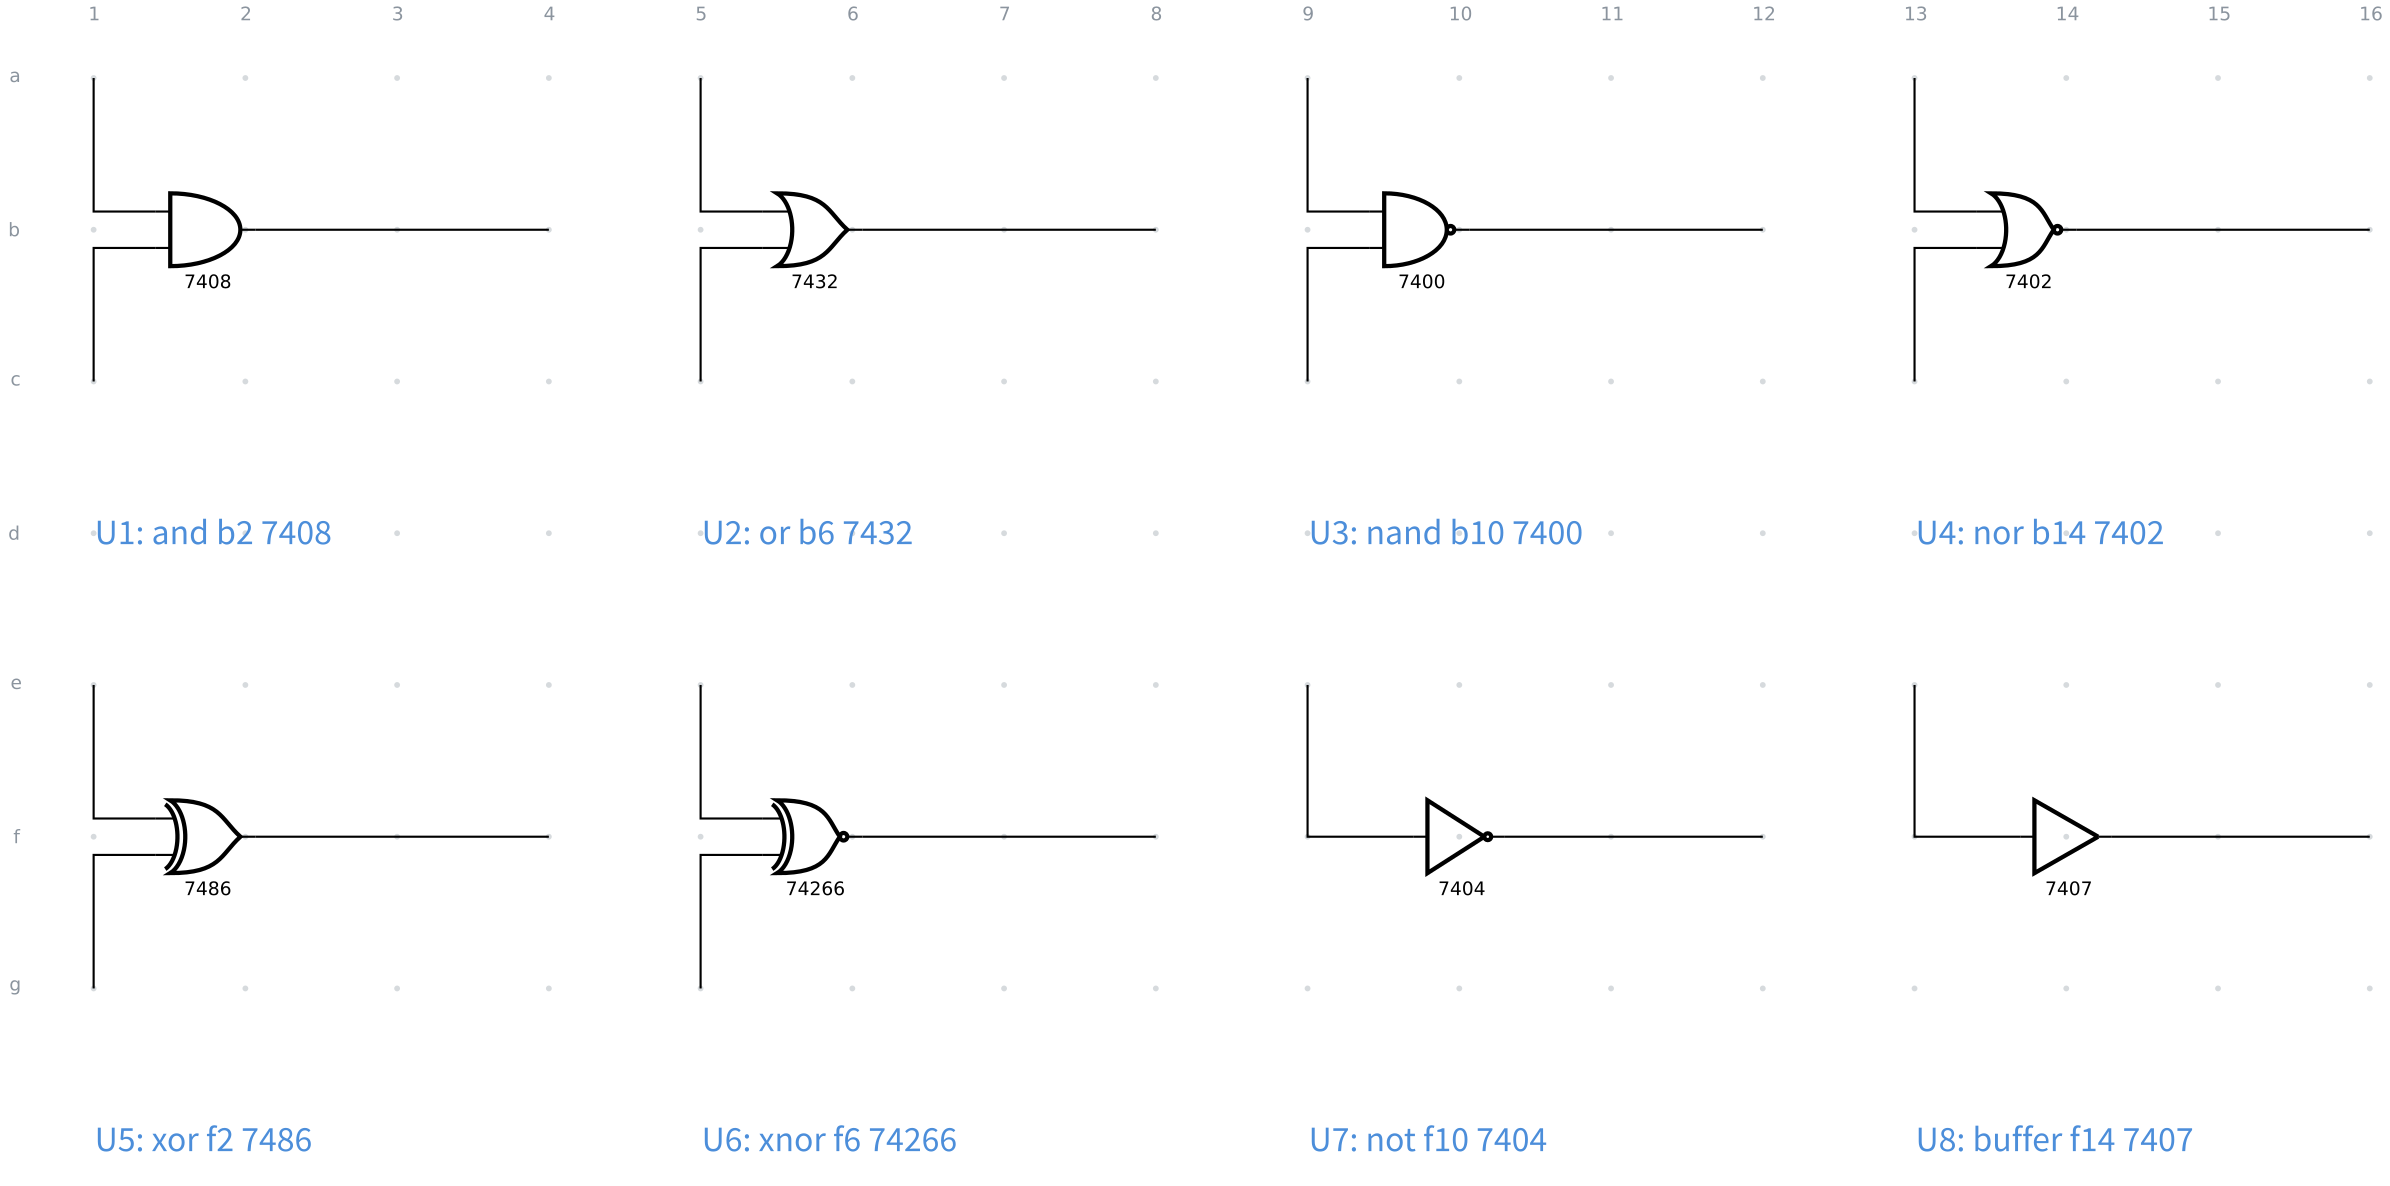
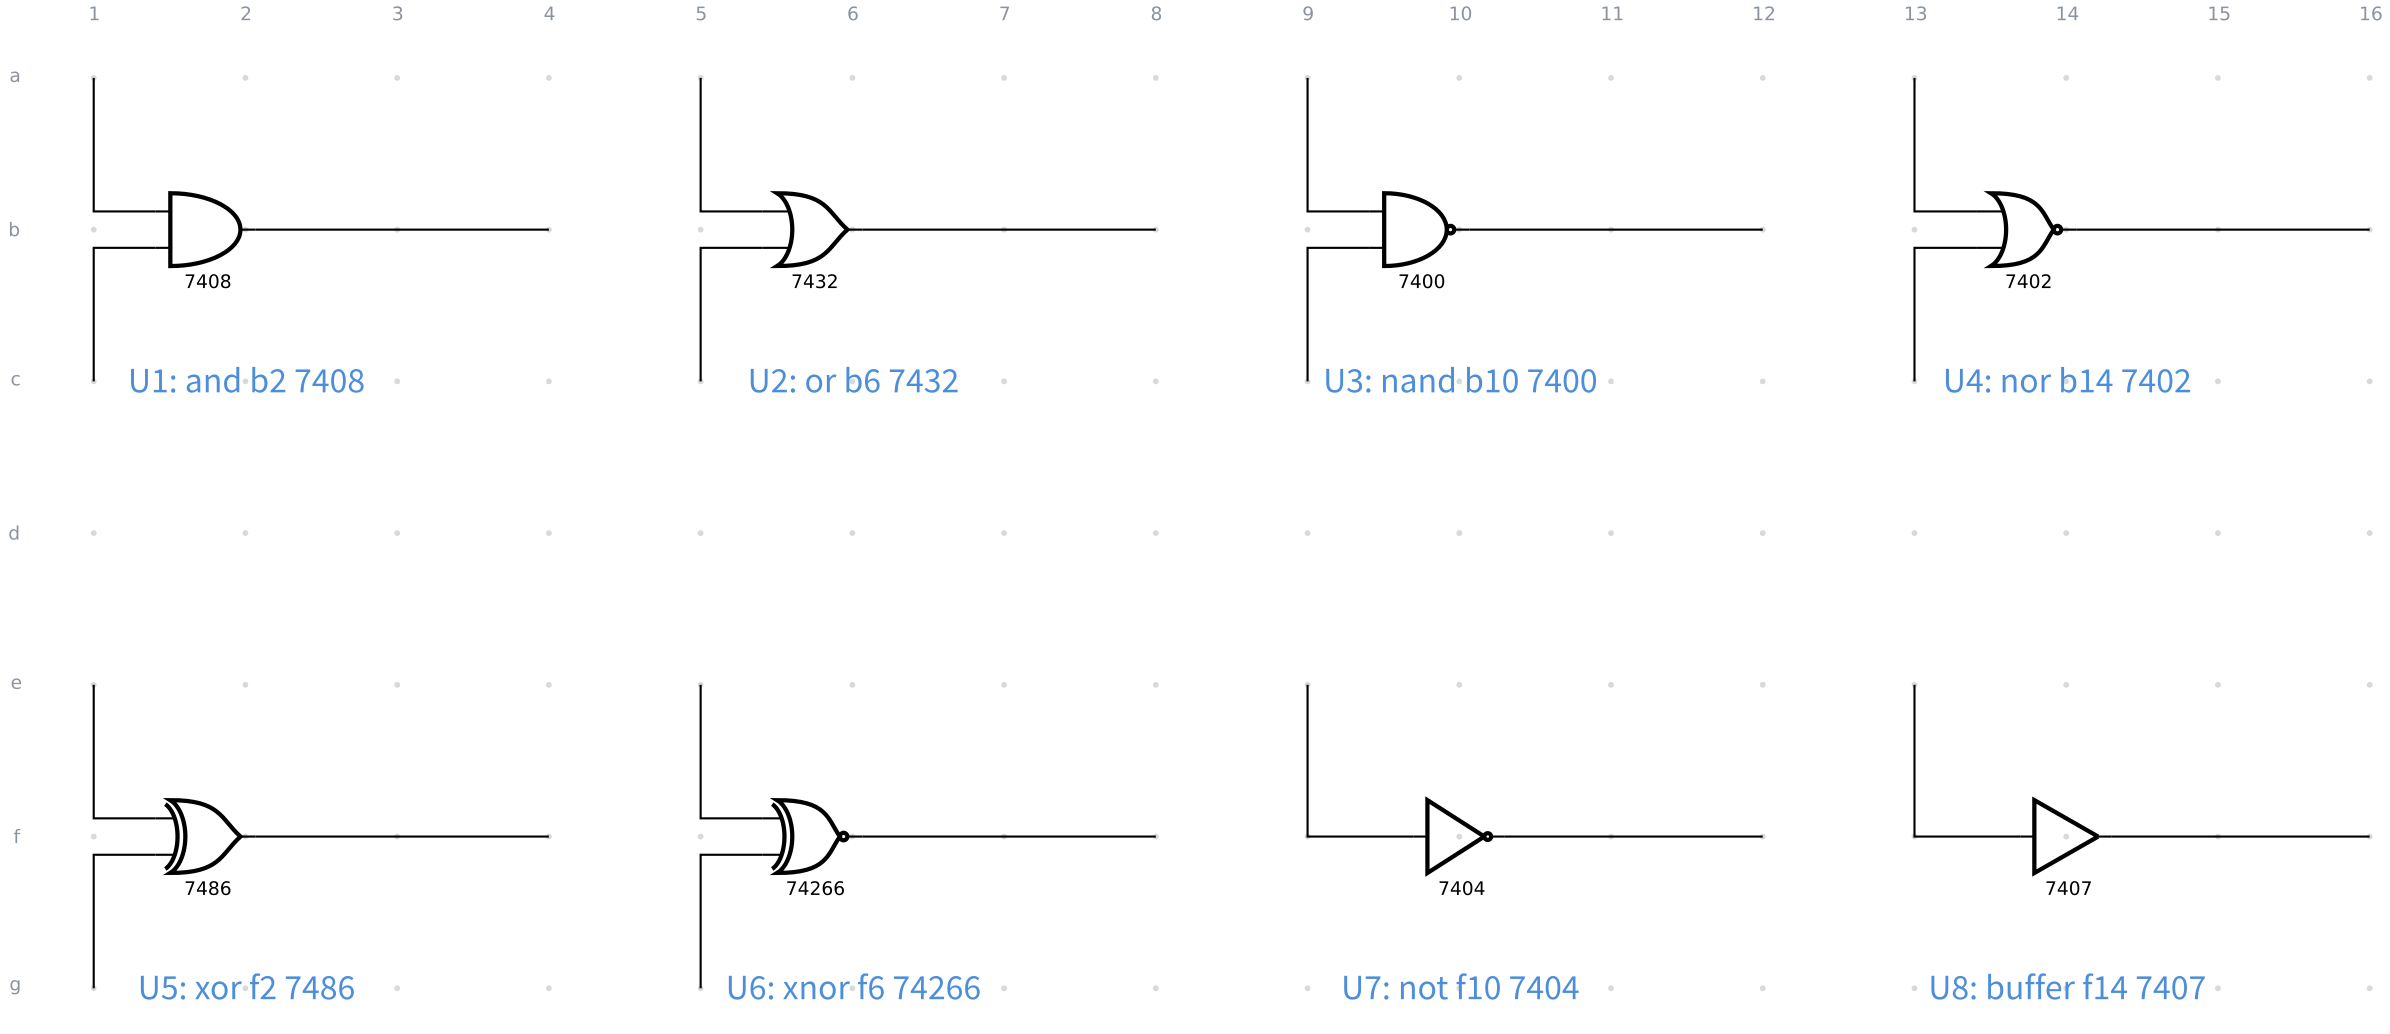
docs: 部品のコメントを記号の真下にセンタリングする
左端揃えだと、字が記号より右へずれて見えて、どの記号の説明なのかが
一目で分からなかった。記号の番地でセンタリングする。

- **ロジックゲート**は 1 行上げて記号の真下 (d1 → c2)。入力のリード線は
  1 列目に下りるので、2 列目に寄せた字とは噛まない
- **トランジスタ・FET** は行を上げない。ソース側のリード線が**記号と同じ列**に
  下りてきて、その終点がちょうど字を置きたいところにある。一度 c2 に置いて
  描いたら**線が字を貫いた**ので、1 行下げたまま (d2) センタリングだけ当てた

図は作り直して、どの記号でも線が字に噛んでいないことを目で見た。

🤖 Generated with [Claude Code](https://claude.com/claude-code)

diff --git a/packages/circuit-fence/examples/out/11-logic-1.tex b/packages/circuit-fence/examples/out/11-logic-1.tex
@@ -97,21 +97,21 @@
 \draw (part-U7.out) -| (f12); % line 30
 \draw (e13) |- (part-U8.in); % line 31
 \draw (part-U8.out) -| (f16); % line 32
-\path (0,-6.593) rectangle (3.81,-5.407); % line 34
-\node[anchor=west, inner sep=0, circuitnotemark, font=\large] at (0,-6) {X}; % line 34
-\path (8,-6.593) rectangle (11.556,-5.407); % line 35
-\node[anchor=west, inner sep=0, circuitnotemark, font=\large] at (8,-6) {X}; % line 35
-\path (16,-6.593) rectangle (20.318,-5.407); % line 36
-\node[anchor=west, inner sep=0, circuitnotemark, font=\large] at (16,-6) {X}; % line 36
-\path (24,-6.593) rectangle (28.064,-5.407); % line 37
-\node[anchor=west, inner sep=0, circuitnotemark, font=\large] at (24,-6) {X}; % line 37
-\path (0,-14.593) rectangle (3.81,-13.407); % line 38
-\node[anchor=west, inner sep=0, circuitnotemark, font=\large] at (0,-14) {X}; % line 38
-\path (8,-14.593) rectangle (12.318,-13.407); % line 39
-\node[anchor=west, inner sep=0, circuitnotemark, font=\large] at (8,-14) {X}; % line 39
-\path (16,-14.593) rectangle (20.064,-13.407); % line 40
-\node[anchor=west, inner sep=0, circuitnotemark, font=\large] at (16,-14) {X}; % line 40
-\path (24,-14.593) rectangle (28.826,-13.407); % line 41
-\node[anchor=west, inner sep=0, circuitnotemark, font=\large] at (24,-14) {X}; % line 41
+\path (0.095,-4.593) rectangle (3.905,-3.407); % line 34
+\node[anchor=west, inner sep=0, circuitnotemark, font=\large] at (2,-4) {X}; % line 34
+\path (8.222,-4.593) rectangle (11.778,-3.407); % line 35
+\node[anchor=west, inner sep=0, circuitnotemark, font=\large] at (10,-4) {X}; % line 35
+\path (15.841,-4.593) rectangle (20.159,-3.407); % line 36
+\node[anchor=west, inner sep=0, circuitnotemark, font=\large] at (18,-4) {X}; % line 36
+\path (23.968,-4.593) rectangle (28.032,-3.407); % line 37
+\node[anchor=west, inner sep=0, circuitnotemark, font=\large] at (26,-4) {X}; % line 37
+\path (0.095,-12.593) rectangle (3.905,-11.407); % line 38
+\node[anchor=west, inner sep=0, circuitnotemark, font=\large] at (2,-12) {X}; % line 38
+\path (7.841,-12.593) rectangle (12.159,-11.407); % line 39
+\node[anchor=west, inner sep=0, circuitnotemark, font=\large] at (10,-12) {X}; % line 39
+\path (15.968,-12.593) rectangle (20.032,-11.407); % line 40
+\node[anchor=west, inner sep=0, circuitnotemark, font=\large] at (18,-12) {X}; % line 40
+\path (23.587,-12.593) rectangle (28.413,-11.407); % line 41
+\node[anchor=west, inner sep=0, circuitnotemark, font=\large] at (26,-12) {X}; % line 41
 \end{circuitikz}
 \end{document}

diff --git a/packages/circuit-fence/examples/out/03-multi-terminal-3.tex b/packages/circuit-fence/examples/out/03-multi-terminal-3.tex
@@ -70,17 +70,17 @@
 \draw (i5) -| (part-M4.drain); % line 24
 \draw (k5) -| (part-M4.source); % line 25
 \draw (j4) -| (part-M4.gate); % line 26
-\path (1.2,-4.193) rectangle (4.248,-3.007); % line 28
+\path (-0.324,-4.193) rectangle (2.724,-3.007); % line 28
 \node[anchor=west, inner sep=0, circuitnotemark, font=\large] at (1.2,-3.6) {X}; % line 28
-\path (4.8,-4.193) rectangle (7.848,-3.007); % line 29
+\path (3.276,-4.193) rectangle (6.324,-3.007); % line 29
 \node[anchor=west, inner sep=0, circuitnotemark, font=\large] at (4.8,-3.6) {X}; % line 29
-\path (1.2,-8.993) rectangle (4.502,-7.807); % line 30
+\path (-0.451,-8.993) rectangle (2.851,-7.807); % line 30
 \node[anchor=west, inner sep=0, circuitnotemark, font=\large] at (1.2,-8.4) {X}; % line 30
-\path (4.8,-8.993) rectangle (8.102,-7.807); % line 31
+\path (3.149,-8.993) rectangle (6.451,-7.807); % line 31
 \node[anchor=west, inner sep=0, circuitnotemark, font=\large] at (4.8,-8.4) {X}; % line 31
-\path (1.2,-13.793) rectangle (4.502,-12.607); % line 32
+\path (-0.451,-13.793) rectangle (2.851,-12.607); % line 32
 \node[anchor=west, inner sep=0, circuitnotemark, font=\large] at (1.2,-13.2) {X}; % line 32
-\path (4.8,-13.793) rectangle (8.102,-12.607); % line 33
+\path (3.149,-13.793) rectangle (6.451,-12.607); % line 33
 \node[anchor=west, inner sep=0, circuitnotemark, font=\large] at (4.8,-13.2) {X}; % line 33
 \end{circuitikz}
 \end{document}

diff --git a/packages/circuit-fence/examples/out/03-multi-terminal-1.tex b/packages/circuit-fence/examples/out/03-multi-terminal-1.tex
@@ -69,17 +69,17 @@
 \draw (e8) -| (part-Q4.collector); % line 24
 \draw (g8) -| (part-Q4.emitter); % line 25
 \draw (f7) -| (part-Q4.gate); % line 26
-\path (1.2,-4.193) rectangle (3.74,-3.007); % line 28
+\path (-0.07,-4.193) rectangle (2.47,-3.007); % line 28
 \node[anchor=west, inner sep=0, circuitnotemark, font=\large] at (1.2,-3.6) {X}; % line 28
-\path (4.8,-4.193) rectangle (7.34,-3.007); % line 29
+\path (3.53,-4.193) rectangle (6.07,-3.007); % line 29
 \node[anchor=west, inner sep=0, circuitnotemark, font=\large] at (4.8,-3.6) {X}; % line 29
-\path (8.4,-4.193) rectangle (11.448,-3.007); % line 30
+\path (6.876,-4.193) rectangle (9.924,-3.007); % line 30
 \node[anchor=west, inner sep=0, circuitnotemark, font=\large] at (8.4,-3.6) {X}; % line 30
-\path (1.2,-8.993) rectangle (3.994,-7.807); % line 31
+\path (-0.197,-8.993) rectangle (2.597,-7.807); % line 31
 \node[anchor=west, inner sep=0, circuitnotemark, font=\large] at (1.2,-8.4) {X}; % line 31
-\path (4.8,-8.993) rectangle (7.594,-7.807); % line 32
+\path (3.403,-8.993) rectangle (6.197,-7.807); % line 32
 \node[anchor=west, inner sep=0, circuitnotemark, font=\large] at (4.8,-8.4) {X}; % line 32
-\path (8.4,-8.993) rectangle (11.448,-7.807); % line 33
+\path (6.876,-8.993) rectangle (9.924,-7.807); % line 33
 \node[anchor=west, inner sep=0, circuitnotemark, font=\large] at (8.4,-8.4) {X}; % line 33
 \end{circuitikz}
 \end{document}

diff --git a/packages/circuit-fence/examples/03-multi-terminal.md b/packages/circuit-fence/examples/03-multi-terminal.md
@@ -31,12 +31,12 @@ wires:
   - g8 -| Q4.E
   - f7 -| Q4.G
 notes:
-  - text d2 blue large: "Q1: npn b2"
-  - text d5 blue large: "Q2: pnp b5"
-  - text d8 blue large: "Q3: nigbt b8"
-  - text h2 blue large: "M1: nmos f2"
-  - text h5 blue large: "M2: pmos f5"
-  - text h8 blue large: "Q4: pigbt f8"
+  - text d2 blue large center: "Q1: npn b2"
+  - text d5 blue large center: "Q2: pnp b5"
+  - text d8 blue large center: "Q3: nigbt b8"
+  - text h2 blue large center: "M1: nmos f2"
+  - text h5 blue large center: "M2: pmos f5"
+  - text h8 blue large center: "Q4: pigbt f8"
 style:
   grid: on
   pitch: 1.2
@@ -117,12 +117,12 @@ wires:
   - k5 -| M4.S
   - j4 -| M4.G
 notes:
-  - text d2 blue large: "J1: njfet b2"
-  - text d5 blue large: "J2: pjfet b5"
-  - text h2 blue large: "M1: nmos-e f2"
-  - text h5 blue large: "M2: pmos-e f5"
-  - text l2 blue large: "M3: nmos-d j2"
-  - text l5 blue large: "M4: pmos-d j5"
+  - text d2 blue large center: "J1: njfet b2"
+  - text d5 blue large center: "J2: pjfet b5"
+  - text h2 blue large center: "M1: nmos-e f2"
+  - text h5 blue large center: "M2: pmos-e f5"
+  - text l2 blue large center: "M3: nmos-d j2"
+  - text l5 blue large center: "M4: pmos-d j5"
 style:
   grid: on
   pitch: 1.2

diff --git a/packages/circuit-fence/examples/11-logic.md b/packages/circuit-fence/examples/11-logic.md
@@ -37,14 +37,14 @@ wires:
   - e13 |- U8.in
   - U8.out -| f16
 notes:
-  - text d1 blue large: "U1: and b2 7408"
-  - text d5 blue large: "U2: or b6 7432"
-  - text d9 blue large: "U3: nand b10 7400"
-  - text d13 blue large: "U4: nor b14 7402"
-  - text h1 blue large: "U5: xor f2 7486"
-  - text h5 blue large: "U6: xnor f6 74266"
-  - text h9 blue large: "U7: not f10 7404"
-  - text h13 blue large: "U8: buffer f14 7407"
+  - text c2 blue large center: "U1: and b2 7408"
+  - text c6 blue large center: "U2: or b6 7432"
+  - text c10 blue large center: "U3: nand b10 7400"
+  - text c14 blue large center: "U4: nor b14 7402"
+  - text g2 blue large center: "U5: xor f2 7486"
+  - text g6 blue large center: "U6: xnor f6 74266"
+  - text g10 blue large center: "U7: not f10 7404"
+  - text g14 blue large center: "U8: buffer f14 7407"
 style:
   grid: on
 ```
